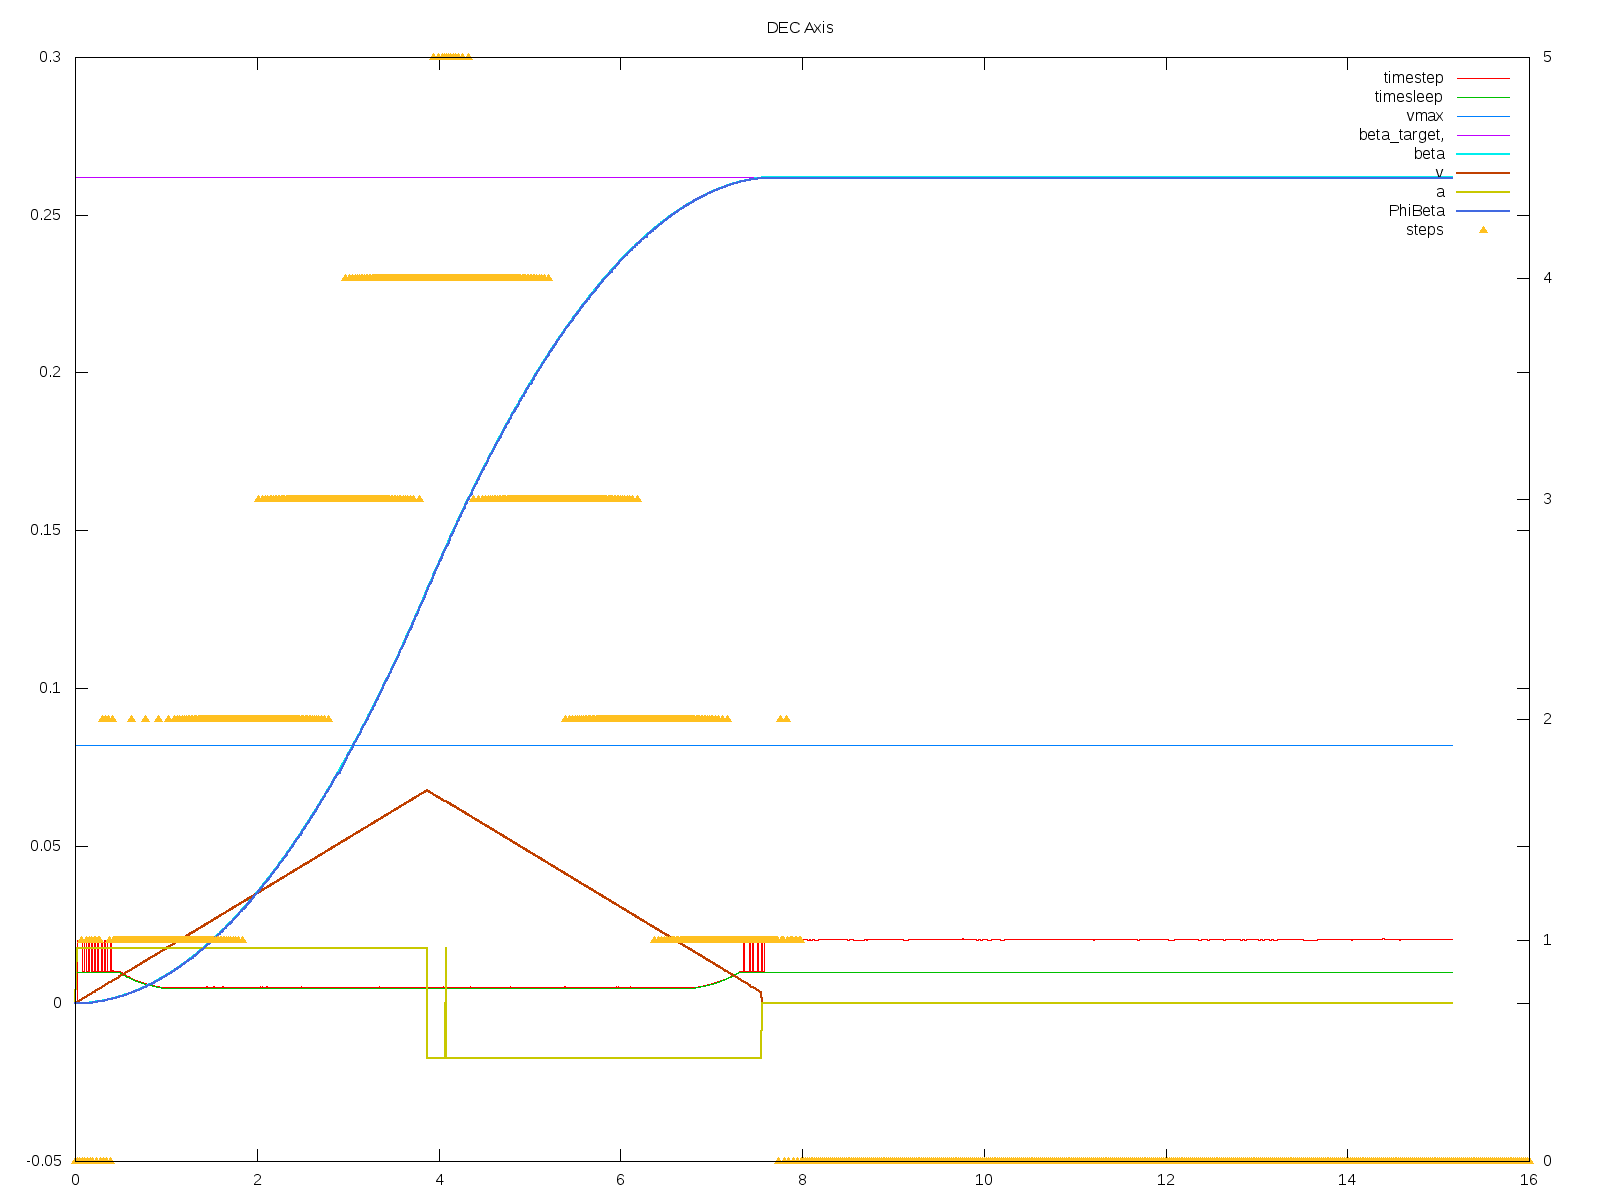
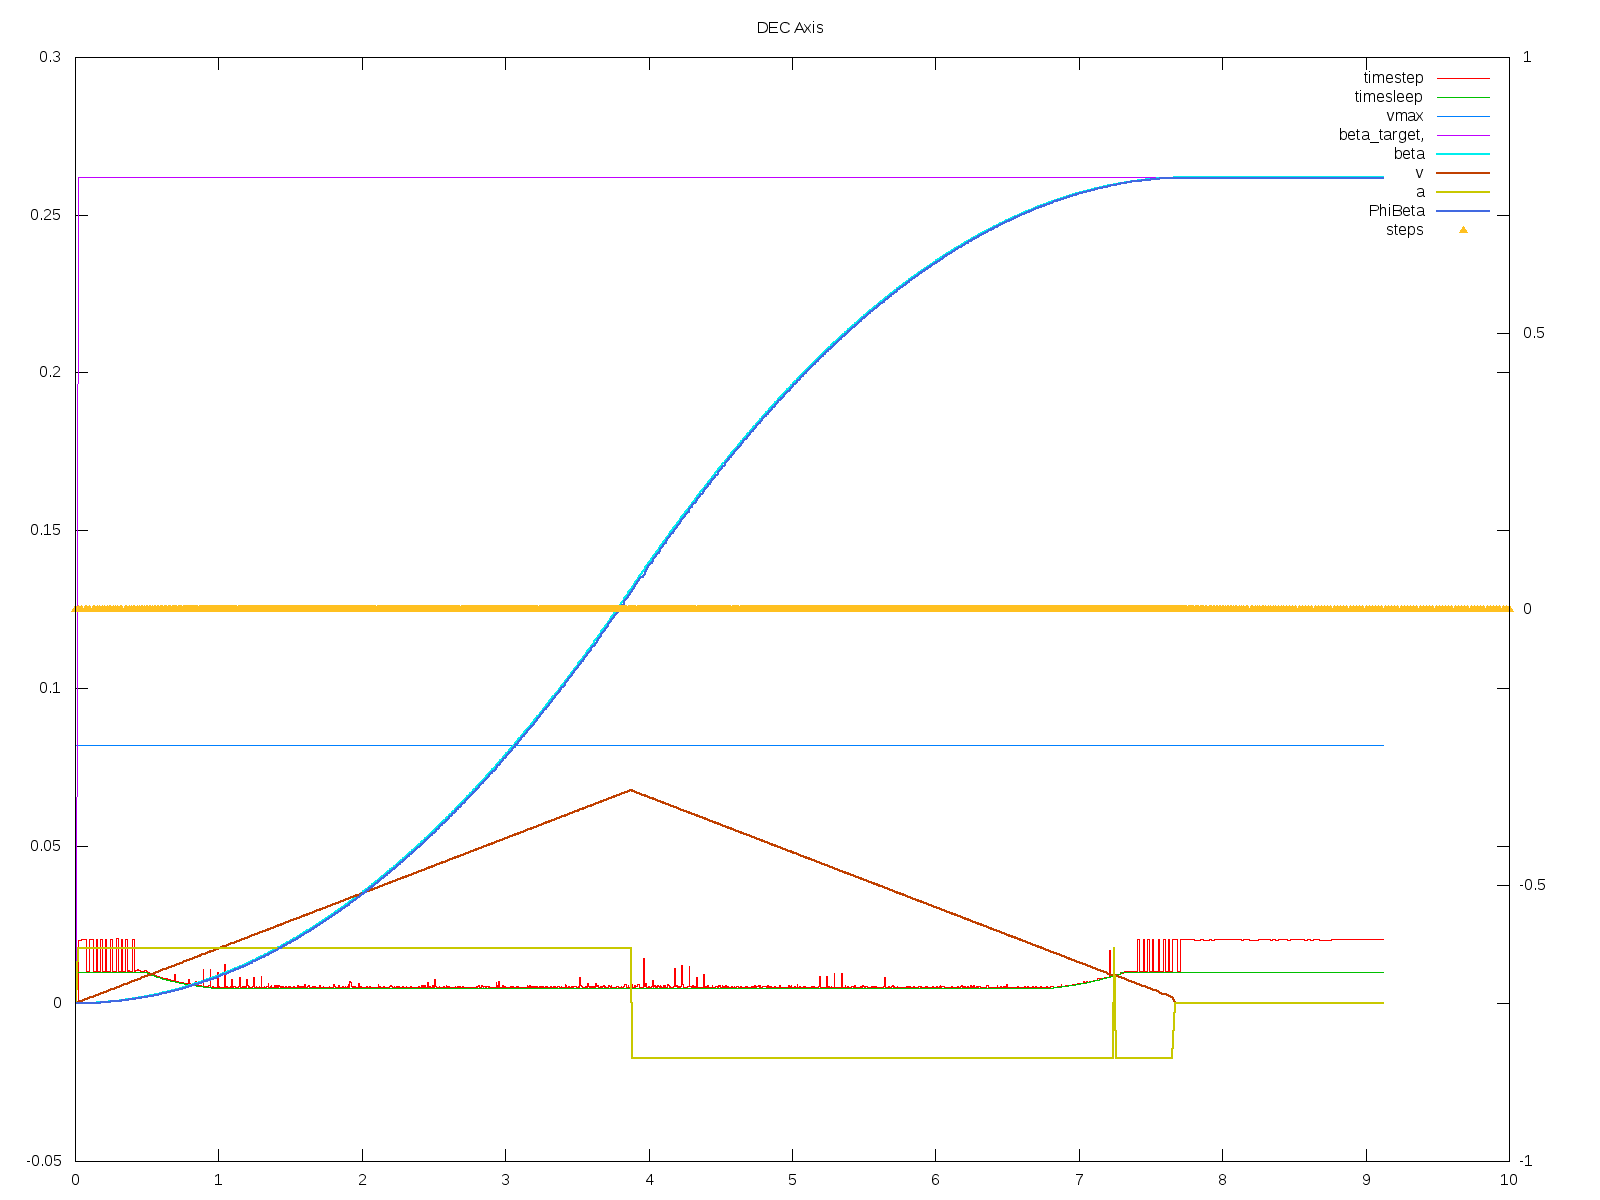
works updating to pigpio V52!

diff --git a/ramps.py b/ramps.py
@@ -195,7 +195,7 @@ class axis(object):
 			self.saveDebug(steps,self.PhiBeta)
 		
 	def saveDebug(self,steps,PhiBeta):
-		line="%g %g %g %g %g %g %g %g %g %d\n" % (time.time()-self.T0,self.timestep, \
+		line="%g %g %g %g %g %g %g %g %g %g\n" % (time.time()-self.T0,self.timestep, \
 			self.timesleep,self._vmax,self.beta_target,self.beta,self.v,self.a,PhiBeta,steps)
 		self.logfile.write(line)
 
@@ -207,7 +207,8 @@ class AxisDriver(axis):
 		self.pi=pigpio.pi('cronostamper')
 		self.PIN=PIN
 		self.DIR_PIN=DIR_PIN
-		cb1 = self.pi.callback(self.PIN, pigpio.FALLING_EDGE, self.stepCounter)
+		cb1 = self.pi.callback(self.PIN, pigpio.RISING_EDGE, self.stepCounter)
+		cb2 = self.pi.callback(self.PIN, pigpio.FALLING_EDGE, self.falling)
 		self.stepsPerRevolution=200*16*24	#Motor:steps*microsteps*gearbox
 		self.corona=500
 		self.plate=500
@@ -223,6 +224,7 @@ class AxisDriver(axis):
 		self.pointError=self.MinPhiStep
 		self.stepTarget=0
 		self.PhiBeta=0
+		self.PhiBetaF=0
 		self.dire=1
 		self.pi.write(self.DIR_PIN, self.dire>0)
 	  	self.pi.set_PWM_dutycycle(self.PIN, 0)
@@ -250,7 +252,9 @@ class AxisDriver(axis):
 
 		if self.debug:
 			PhiBeta=float(self.PhiBeta)*self.MinPhiStep
-			self.saveDebug(Isteps,PhiBeta)
+			discarted=float(self.discarted)*self.MinPhiStep
+			self.saveDebug(discarted,PhiBeta)
+			#self.saveDebug(Isteps,PhiBeta)
 
 
 		if Isteps==0:
@@ -263,30 +267,41 @@ class AxisDriver(axis):
 			self.dire=math.copysign(1,Isteps)
 			self.pi.write(self.DIR_PIN, self.dire>0)
 
+		#calculate target steps
+	   	with self.lock:
+			self.stepTarget=self.stepTarget+Isteps
 
-
-		self.stepTarget=self.stepTarget+Isteps
-
-
-	def stepCounter(self,gpio, level, tick):
+	def falling(self,gpio, level, tick):
 		dire=self.pi.read(self.DIR_PIN)
 		if dire==1:
 			dire=1
 		else:
 			dire=-1
 
+		self.PhiBetaF=self.PhiBetaF+1*dire
+		pass
+
+	def stepCounter(self,gpio, level, tick):
+	   with self.lock:
+		dire=self.pi.read(self.DIR_PIN)
+		if dire==1:
+			dire=1
+		else:
+			dire=-1
+
+		self.PhiBeta=self.PhiBeta+1*dire
+
 
 		if self.discartFlag:
 			self.discarted=self.discarted+1*dire
-			print ephem.degrees(self.discarted*self.MinPhiStep),self.discarted,self.PhiBeta,abs(self.v)*1.1/self.MinPhiStep
+			print self.name,self.discarted*self.MinPhiStep,ephem.degrees(self.discarted*self.MinPhiStep),\
+				self.discarted,self.PhiBeta,abs(self.v)*1/self.MinPhiStep
 			#print self.name,self.PhiBeta,self.stepTarget,abs(self.stepTarget-self.PhiBeta)
-			return
+			#return
 
-
-		self.PhiBeta=self.PhiBeta+1*dire
-		#print self.name,self.PhiBeta,self.stepTarget,abs(self.stepTarget-self.PhiBeta)
-		if abs(self.stepTarget-self.PhiBeta) == 0:
-	 	   with self.lock:
+		#Arrived. Stop PWM
+		if abs(self.stepTarget-self.PhiBeta+self.discarted) == 0:
+			print "Arrive"
 			self.discartFlag=True
 			self.pi.hardware_PWM(self.PIN,0,0)
 		  	#self.pi.set_PWM_dutycycle(self.PIN, 0)
@@ -294,6 +309,8 @@ class AxisDriver(axis):
 			#self.pi.write(self.PIN, 0)
 			#print self.name,self.PhiBeta,self.stepTarget,abs(self.stepTarget-self.PhiBeta)
 			#print "Stop PWM"
+		
+
 
 
 	@threaded
@@ -314,28 +331,19 @@ class AxisDriver(axis):
 
 	@threaded
 	def stepQueue(self):
-	  #self.pi.set_PWM_frequency(self.PIN,1/self.pulseWidth)
  	  while not self.kill:
 		with self.lock:
-		   if abs(self.stepTarget-self.PhiBeta) != 0:
-			#self.pi.set_PWM_dutycycle(self.PIN, int(self.pulseDuty*255))
+		   if abs(self.stepTarget-self.PhiBeta+self.discarted) != 0:
 			freq=round(abs(self.v)*1/self.MinPhiStep)
-			#print freq
 			if freq  <1/self.pulseWidth:
-				#self.pi.set_PWM_frequency(self.PIN,freq)
 				self.pi.hardware_PWM(self.PIN,freq,self.pulseDuty*1000000)
-				if freq>self.pi.get_PWM_frequency(self.PIN):
-					pass
-					print self.name,freq,self.pi.get_PWM_frequency(self.PIN)
 			else:
-				#self.pi.set_PWM_frequency(self.PIN,1/self.pulseWidth)
 				self.pi.hardware_PWM(self.PIN,1/self.pulseWidth,self.pulseDuty*1000000)
 			self.discartFlag=False
 		time.sleep(self.pulseWidth)
 	  print "STEPS QUEUE END"
 	  self.pi.hardware_PWM(self.PIN,0,0)
-	  #self.pi.set_PWM_dutycycle(self.PIN, 0)
-	  time.sleep(self.pulseWidth)
+
 
 	def testFreq(self):
 		for f in range(1000):
@@ -427,7 +435,7 @@ if __name__ == '__main__':
 	DEC=ephem.degrees('15:00:00')
 	m.slew(RA,DEC)
 	t=0
-	while t<15:
+	while t<9:
 		t=t+m.axis1.timestep
 		time.sleep(m.axis1.timestep)
 		#m.coords()

diff --git a/PWMtest.py b/PWMtest.py
@@ -1,0 +1,17 @@
+#!/usr/bin/python
+
+import pigpio
+import time
+if __name__ == '__main__':
+	pi=pigpio.pi("cronostamper")
+	pi.set_mode(12, pigpio.OUTPUT)
+	pi.set_mode(13, pigpio.OUTPUT)
+	pi.hardware_PWM(12,10,500000)
+	pi.hardware_PWM(18,0,0)
+	for i in range(100):
+		t1 = pi.get_current_tick()
+		pi.hardware_PWM(13,i*1,500000)
+		t2 = pi.get_current_tick()
+		print pigpio.tickDiff(t1,t2)
+		time.sleep(0.050)
+	print pi.get_hardware_revision()

diff --git a/LX200CMD.py b/LX200CMD.py
@@ -56,8 +56,8 @@ class lx200conductor():
 		v=ephem.degrees('10:00:00')
 		a=ephem.degrees('05:00:00')
 		self.m=ramps.mount(a,v,self.pointError)
-		vRA=ephem.hours("00:04:01")
-		vDEC=ephem.degrees("01:00:00")
+		vRA=ephem.hours("00:00:01")
+		vDEC=ephem.degrees("00:00:00")
 		self.m.trackSpeed(vRA,vDEC)
 
 		self.i=tle.TLEhandler(self.observer)
